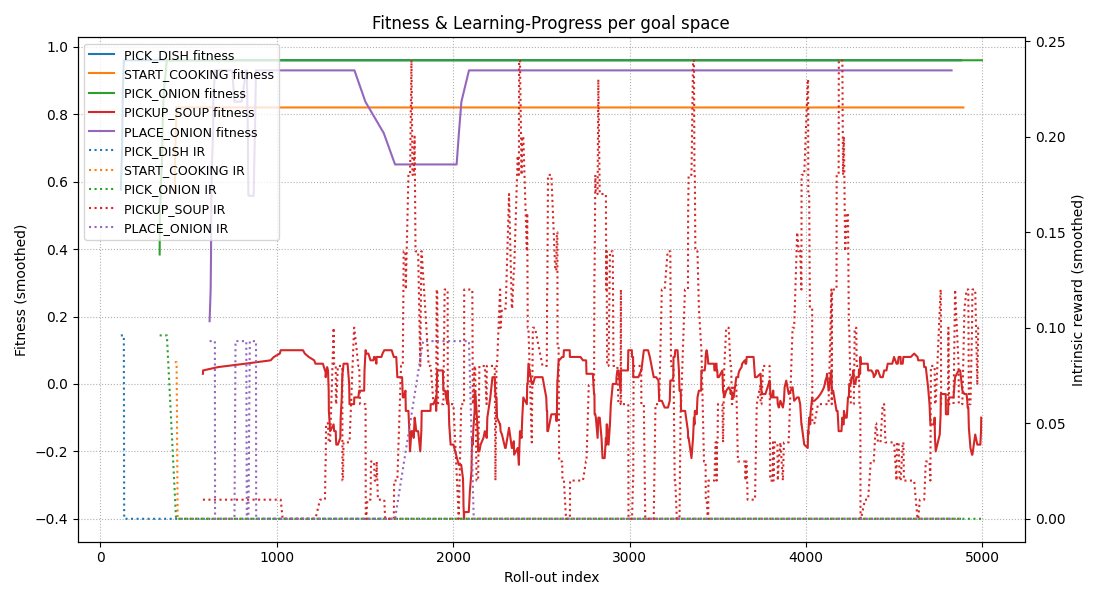
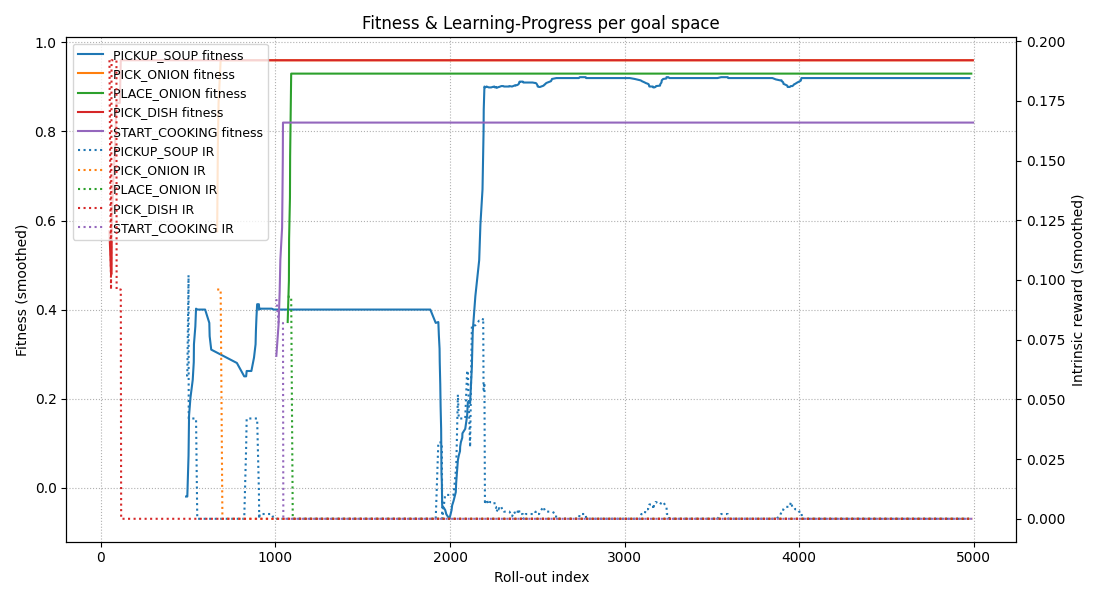
The agents can pickup the soup!

diff --git a/imrl_agent_new/core/goal_spaces.py b/imrl_agent_new/core/goal_spaces.py
@@ -142,17 +142,7 @@ def pickup_soup_space(length_of_trajectory: int) -> Goal:
                 return -0.2
 
             # Detect bowl pickup
-            if current_held == ItemCode.DISH.value:
-                # The agent is next to the pickup location
-
-                adjacency_features = mdp.get_adjacent_features(current_agent)
-                adjacent_positions = {feature[0] for feature in adjacency_features}
-                # loop through the current_cooking_pots and check if the agent is next to a pot
-                for pot in mdp.get_cooking_pots(mdp.get_pot_states(state)):
-                    if pot in adjacent_positions:
-                        # The agent is next to a cooking pot
-                        return 0.05
-
+            if current_held != 0 and current_held.name == 'dish':
                 # The agent is holding a dish
                 return 0.02
 
@@ -170,8 +160,7 @@ def pickup_soup_space(length_of_trajectory: int) -> Goal:
                 mdp: OvercookedGridworld):
         player: PlayerState = state.players[agent_id]
         held = player.get_object() if player.has_object() else 0
-        if held == ItemCode.SOUP:
-            print("Agent {} successfully picked up soup.".format(agent_id))
+        if held and held.name == 'soup':
             return True
         return False
 
